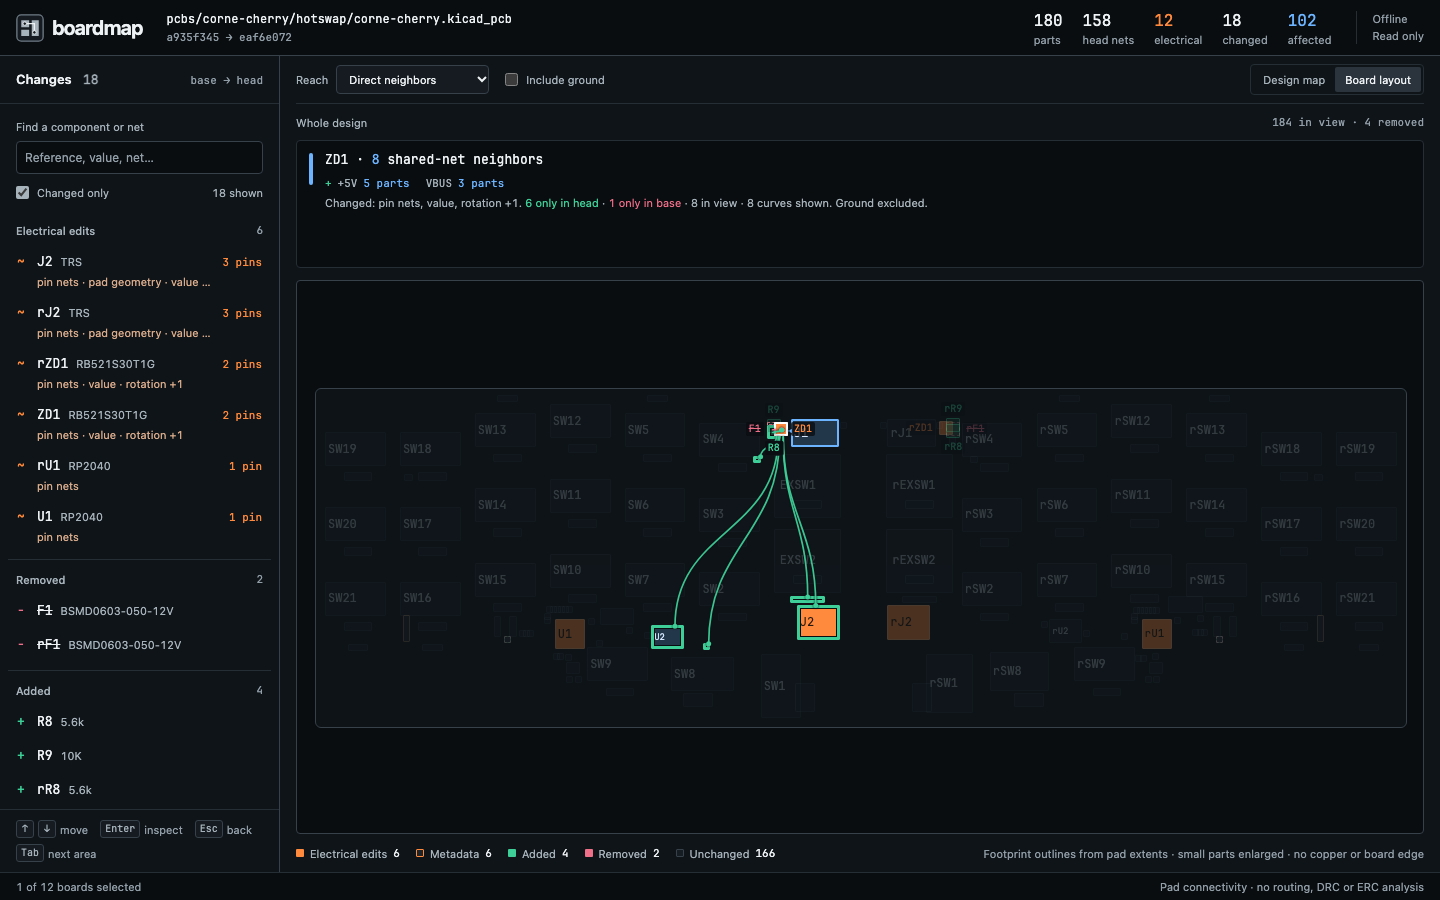
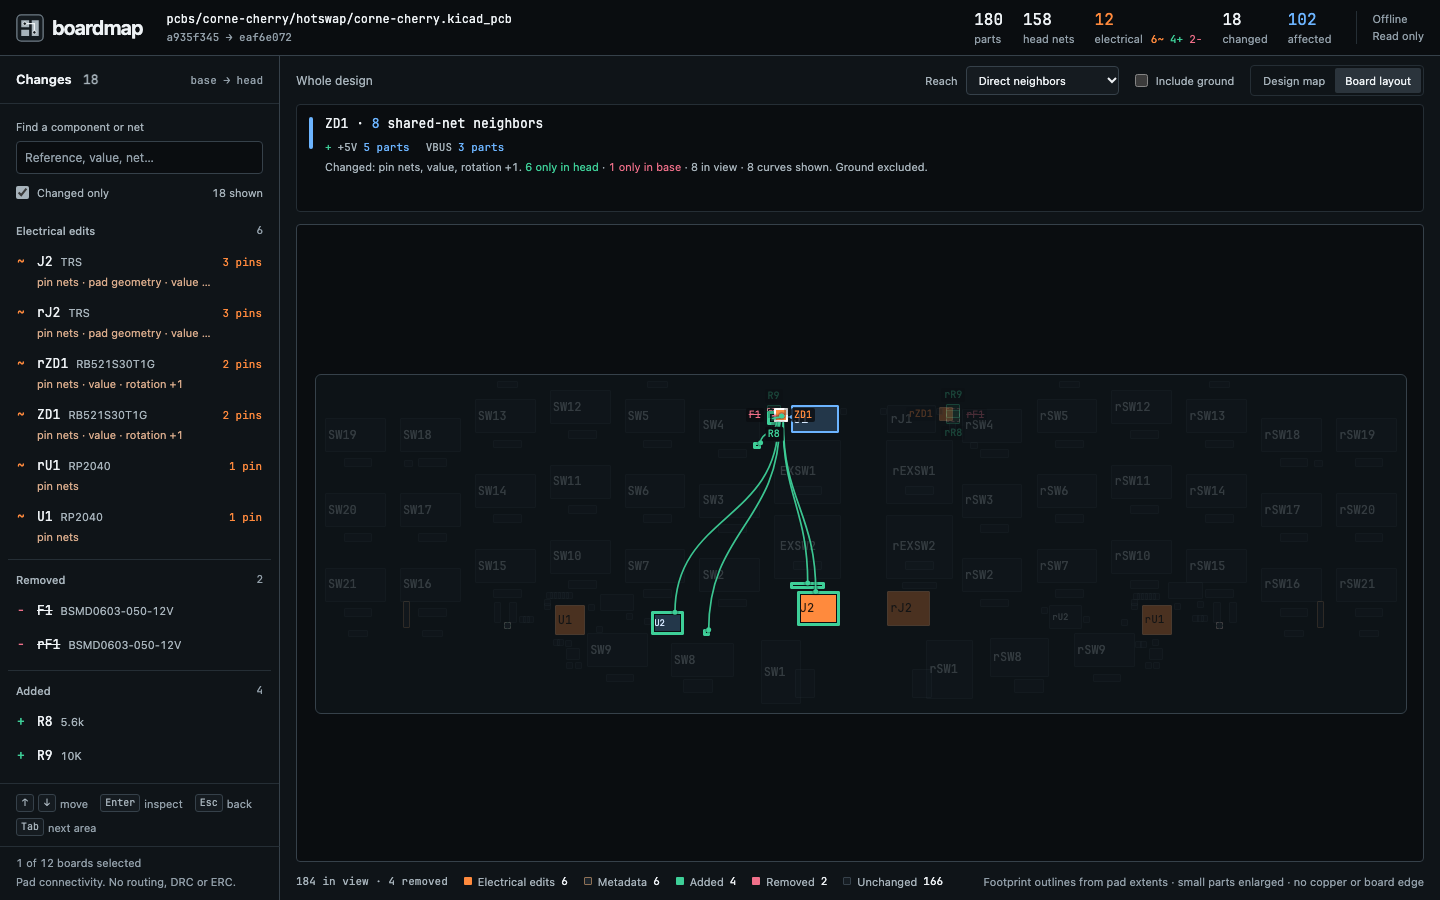
Retake the gallery on the final layout

diff --git a/docs/media/ui/README.md b/docs/media/ui/README.md
@@ -22,6 +22,9 @@ Actual Chromium captures of the running UI on the pinned HackRF PR 1411 and Corn
 | `board/hackrf/board-phone.png` | 390 × 844 | The same view on a phone. |
 | `polish/corne-map.png` | 1440 × 900 | The Metadata legend swatch matches the metadata tiles, and the narrow Root sheet header shows its whole name. |
 | `counts/hackrf-map.png`, `counts/corne-map.png` | 1440 × 900 | The header shows 105 electrical as 67 edits, 9 added and 29 removed, the same three numbers as the legend. Each sheet header splits its count the same way. |
+| `layout/phone-diff.png` | 390 × 844 | A part diff on a phone. |
+
+Every capture in this gallery was retaken after the layout change that moved the breadcrumb into the toolbar and the footer under the change list. At 1440 × 900 the map is 638 pixels tall, up from 545.
 
 Recordings of drill-in, drill-out and curve motion are on the `pr-assets` branch, outside the installed package and the main history.
 
@@ -30,12 +33,8 @@ Recordings of drill-in, drill-out and curve motion are on the `pr-assets` branch
 Use Node 22+, `npm ci` and Playwright Chromium. Set `HACKRF_CACHE` and `CORNE_CACHE` to git caches that hold the pinned objects. `scripts/demo.mjs` fetches them.
 
 ```sh
-node scripts/capture-ui.mjs hackrf "$HACKRF_CACHE" docs/media/ui/renames renames
-node scripts/capture-ui.mjs hackrf "$HACKRF_CACHE" docs/media/ui/inspector inspector
-node scripts/capture-ui.mjs hackrf "$HACKRF_CACHE" docs/media/ui/map/hackrf map phone
-node scripts/capture-ui.mjs corne "$CORNE_CACHE" docs/media/ui/map/corne map
-node scripts/capture-ui.mjs hackrf "$HACKRF_CACHE" docs/media/ui/board/hackrf board
-node scripts/capture-ui.mjs corne "$CORNE_CACHE" docs/media/ui/board/corne board
+node scripts/capture-ui.mjs hackrf "$HACKRF_CACHE" OUT_DIR
+node scripts/capture-ui.mjs corne "$CORNE_CACHE" OUT_DIR
 ```
 
-The script takes any of the scenes `renames`, `inspector`, `map`, `board`, `phone` and `motion`, and captures all of them when none is named. `motion` records the browser and needs FFmpeg to write a GIF.
+Each run writes every scene into `OUT_DIR`, and the gallery keeps the files named above. The script also takes any of the scenes `renames`, `inspector`, `map`, `board`, `phone` and `motion`. `motion` records the browser and needs FFmpeg to write a GIF.
